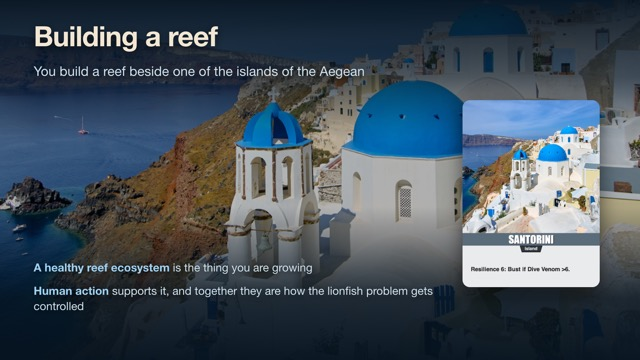
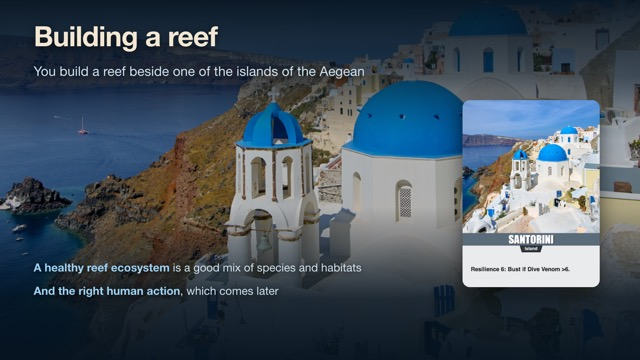
Reef Rush deck: reorder and reword the ecosystem section (species, habitats, goals, scientists, human action)

Changed region(s): [[0.0312, 0.7944, 0.6875, 0.8861], [0.2812, 0.7333, 0.5625, 0.7639]]

diff --git a/presentations/reef-rush/index.html b/presentations/reef-rush/index.html
@@ -86,6 +86,15 @@ body { background:#06131f; font-family:"Helvetica Neue", Helvetica, Arial, sans-
 .hab-photo { position:relative; width:520px; height:400px; border-radius:22px; overflow:hidden; box-shadow:0 24px 60px rgba(0,0,0,0.6); }
 .hab-photo img { display:block; width:100%; height:100%; object-fit:cover; }
 .band { position:absolute; left:0; right:0; bottom:0; padding:16px; font-size:30px; font-weight:700; text-align:center; color:#fff; letter-spacing:0.04em; }
+.recap { position:absolute; left:100px; top:545px; width:900px; display:flex; flex-wrap:wrap; gap:16px 21px; align-items:flex-end; }
+.rc-hab { width:286px; }
+.rc-cards { display:flex; gap:8px; margin-bottom:8px; }
+.rc-cards img { display:block; width:90px; height:123px; object-fit:cover; border-radius:7px; box-shadow:0 6px 14px rgba(0,0,0,0.6); }
+.rc-photo { position:relative; width:286px; height:84px; border-radius:12px; overflow:hidden; box-shadow:0 12px 28px rgba(0,0,0,0.6); }
+.rc-photo img { display:block; width:100%; height:100%; object-fit:cover; }
+.rc-photo span { position:absolute; left:0; right:0; bottom:0; padding:5px 4px; font-size:20px; font-weight:700; text-align:center; color:#fff; }
+.rc-goals { display:flex; gap:14px; width:100%; }
+.rc-goals img { display:block; width:118px; height:161px; object-fit:cover; border-radius:9px; box-shadow:0 12px 28px rgba(0,0,0,0.6); }
 .quote { position:absolute; left:100px; top:700px; width:1720px; padding:28px 34px; border-radius:20px; background:rgba(6,19,31,0.85); border-left:8px solid #ff9d7a; }
 .quote p { font-size:34px; line-height:1.35; color:#f3e7d3; font-style:italic; }
 .quote span { display:block; margin-top:12px; font-size:22px; letter-spacing:0.08em; text-transform:uppercase; color:#9fc3d9; }
@@ -127,7 +136,7 @@ body { background:#06131f; font-family:"Helvetica Neue", Helvetica, Arial, sans-
 <!-- GENERATED by build_deck.py. Edit build_deck.py, not this file. -->
 <div id="root" data-composition-id="reef-rush-v3" data-start="0" data-width="1920" data-height="1080" data-duration="400" data-fps="30">
 <!-- s01 Reef Rush -->
-<section class="clip scene" id="s01" data-start="0.000" data-duration="16.224" data-track-index="1" data-label="Reef Rush">
+<section class="clip scene" id="s01" data-start="0.000" data-duration="16.146" data-track-index="1" data-label="Reef Rush">
 <div class="glow"></div>
   <div class="kicker" id="s01-kicker" style="top:232px; font-size:40px; letter-spacing:0.35em;">BioInvaders!</div>
   <h1 class="title" id="s01-title" style="top:300px; width:1060px; font-size:150px; line-height:1;">Reef Rush</h1>
@@ -144,7 +153,7 @@ body { background:#06131f; font-family:"Helvetica Neue", Helvetica, Arial, sans-
   <div class="funding" id="s01-foot"><img src="assets/logos/eu_flag.png" alt="European Union flag">Funded by the European Union<span class="grant">Horizon Europe grant agreement No 101181413</span></div>
 </section>
 <!-- s02 The invader -->
-<section class="clip scene" id="s02" data-start="15.724" data-duration="23.310" data-track-index="2" data-label="The invader">
+<section class="clip scene" id="s02" data-start="15.646" data-duration="22.919" data-track-index="2" data-label="The invader">
 <img class="bg" src="assets/generated/slide_03_map_v2.webp" alt="" style="filter:saturate(0.88) brightness(0.86) contrast(1.03);">
   <div class="tint"></div>
   <div class="scrim-top"></div>
@@ -166,7 +175,7 @@ body { background:#06131f; font-family:"Helvetica Neue", Helvetica, Arial, sans-
   <div class="foot" id="s02-foot" style="bottom:54px;">The reefs our Greek partners dive on. <b>Every species in the game is one they meet in the sea</b></div>
 </section>
 <!-- s03 Why it's a threat -->
-<section class="clip scene" id="s03" data-start="38.534" data-duration="22.273" data-track-index="3" data-label="Why it&#x27;s a threat">
+<section class="clip scene" id="s03" data-start="38.065" data-duration="21.900" data-track-index="3" data-label="Why it&#x27;s a threat">
 <div class="glow"></div>
   <h1 class="title" id="s03-title" style="top:62px;">Why it's a threat</h1>
   <div class="threat" id="s03-t1" style="left:100px;">
@@ -186,7 +195,7 @@ body { background:#06131f; font-family:"Helvetica Neue", Helvetica, Arial, sans-
   </div>
 </section>
 <!-- s04 Invasive species this, invasive species that -->
-<section class="clip scene" id="s04" data-start="60.307" data-duration="15.210" data-track-index="4" data-label="Invasive species this, invasive species that">
+<section class="clip scene" id="s04" data-start="59.465" data-duration="15.071" data-track-index="4" data-label="Invasive species this, invasive species that">
 <img class="bg" src="assets/generated/slide_06_scrolling_figure.webp" alt="" style="filter:brightness(0.55) saturate(0.7);">
   <div class="scrim-left"></div>
   <h1 class="title" id="s04-title" style="top:150px; width:1100px; font-size:96px;">Invasive species this,<br><span class="hot">invasive species that</span></h1>
@@ -194,7 +203,7 @@ body { background:#06131f; font-family:"Helvetica Neue", Helvetica, Arial, sans-
   <div class="line" id="s04-l2" style="top:610px; width:1000px;">It stays <b>abstract</b>. It doesn't feel emotionally salient, and it doesn't motivate action</div>
 </section>
 <!-- s05 The law of apparent reality -->
-<section class="clip scene" id="s05" data-start="75.018" data-duration="16.052" data-track-index="5" data-label="The law of apparent reality">
+<section class="clip scene" id="s05" data-start="74.036" data-duration="15.786" data-track-index="5" data-label="The law of apparent reality">
 <div class="glow"></div>
   <h1 class="title" id="s05-title" style="top:62px;">The law of apparent reality</h1>
   <div class="panel" id="s05-quote" style="left:100px; top:200px; width:1000px;">
@@ -213,7 +222,7 @@ body { background:#06131f; font-family:"Helvetica Neue", Helvetica, Arial, sans-
   <div class="foot" id="s05-foot" style="bottom:54px;">The fear tracks the <b>experience</b>, not the danger</div>
 </section>
 <!-- s06 Play makes it close -->
-<section class="clip scene" id="s06" data-start="90.570" data-duration="12.596" data-track-index="6" data-label="Play makes it close">
+<section class="clip scene" id="s06" data-start="89.322" data-duration="12.389" data-track-index="6" data-label="Play makes it close">
 <img class="bg" src="assets/generated/slide_06_reef_table.webp" alt="" style="filter:brightness(0.8);">
   <div class="scrim-top"></div>
   <div class="scrim-bottom"></div>
@@ -223,41 +232,29 @@ body { background:#06131f; font-family:"Helvetica Neue", Helvetica, Arial, sans-
   <div class="foot" id="s06-foot" style="bottom:40px; font-size:40px; color:#f3e7d3;">A game puts it in your hands</div>
 </section>
 <!-- s07 Building a reef -->
-<section class="clip scene" id="s07" data-start="102.666" data-duration="13.287" data-track-index="7" data-label="Building a reef">
+<section class="clip scene" id="s07" data-start="101.211" data-duration="15.106" data-track-index="7" data-label="Building a reef">
 <img class="bg" src="assets/photos/island_santorini_full_art.webp" alt="" style="filter:brightness(0.75);">
   <div class="scrim-top"></div>
   <div class="scrim-bottom"></div>
   <h1 class="title" id="s07-title" style="top:62px;">Building a reef</h1>
   <div class="line" id="s07-lede" style="top:186px; font-size:40px;">You build a reef beside one of the islands of the Aegean</div>
   <div class="card" id="s07-card" style="right:120px; top:300px; width:412px; height:562px;"><img src="assets/cards/island_santorini_card.webp" alt="Santorini island card"></div>
-  <div class="line" id="s07-l1" style="top:780px; width:1200px;"><b>A healthy reef ecosystem</b> is the thing you are growing</div>
-  <div class="line" id="s07-l2" style="top:850px; width:1200px;"><b>Human action</b> supports it, and together they are how the lionfish problem gets controlled</div>
+  <div class="line" id="s07-l1" style="top:780px; width:1200px;"><b>A healthy reef ecosystem</b> is a good mix of species and habitats</div>
+  <div class="line" id="s07-l2" style="top:850px; width:1200px;"><b>And the right human action</b>, which comes later</div>
 </section>
-<!-- s08 Card by card -->
-<section class="clip scene" id="s08" data-start="115.453" data-duration="14.324" data-track-index="8" data-label="Card by card">
+<!-- s08 A healthy ecosystem -->
+<section class="clip scene" id="s08" data-start="115.817" data-duration="12.729" data-track-index="8" data-label="A healthy ecosystem">
 <img class="bg" src="assets/bga/final_reefs.webp" alt="" style="filter:brightness(0.3) saturate(0.6) blur(2px);">
   <div class="scrim-top"></div>
-  <h1 class="title" id="s08-title" style="top:62px;">Card by card</h1>
-  <div class="line" id="s08-lede" style="top:186px; font-size:40px;">Every card features <b>sea life native to the seas around Greece</b></div>
+  <h1 class="title" id="s08-title" style="top:62px;">A healthy ecosystem</h1>
+  <div class="line" id="s08-lede" style="top:186px; font-size:40px;">A healthy mix of <b>species native to the seas around Greece</b></div>
   <div class="art" id="s08-a1" style="left:100px;"><img src="assets/art/dusky_grouper_full_art.webp" alt=""><span>Dusky grouper</span></div>
   <div class="art" id="s08-a2" style="left:560px;"><img src="assets/art/ornate_wrasse_full_art.webp" alt=""><span>Ornate wrasse</span></div>
   <div class="art" id="s08-a3" style="left:1020px;"><img src="assets/art/yellow_tube_sponge_full_art.webp" alt=""><span>Yellow tube sponge</span></div>
   <div class="art" id="s08-a4" style="left:1480px;"><img src="assets/art/jellyfish_full_art.webp" alt=""><span>Fried egg jellyfish</span></div>
 </section>
-<!-- s09 Working with scientists -->
-<section class="clip scene" id="s09" data-start="129.278" data-duration="12.081" data-track-index="9" data-label="Working with scientists">
-<img class="bg" src="assets/photos/s09_aegean_reef_gamba.webp" alt="Rocky reef in the Cyclades with ornate wrasse, seabreams, rabbitfish, red algae and red encrusting sponge" style="left:auto; right:0; width:1080px; filter:brightness(0.85);">
-  <div class="scrim-left" style="width:1300px;"></div>
-  <h1 class="title" id="s09-title" style="top:62px;">Working with scientists</h1>
-  <div class="line" id="s09-lede" style="top:186px; width:1000px; font-size:40px;">Every species in the deck is a <b>real Aegean species</b></div>
-  <div class="panel" id="s09-box" style="left:100px; top:330px; width:900px;">
-    <p style="font-size:32px; line-height:1.4;">The GuardIAS ecologists in Greece and Germany chose and checked the species, the habitats they live in, and the way they behave</p>
-  </div>
-  <div class="foot" id="s09-foot" style="bottom:54px; width:1000px;">Managing invasions in the Med is <b>what they do for a living</b></div>
-  <div class="credit" id="s09-credit">Photo: Paolo Gamba, Cyclades, CC BY 2.0</div>
-</section>
 <!-- s10 The right habitats -->
-<section class="clip scene" id="s10" data-start="140.858" data-duration="17.089" data-track-index="10" data-label="The right habitats">
+<section class="clip scene" id="s10" data-start="128.046" data-duration="16.465" data-track-index="9" data-label="The right habitats">
 <div class="glow"></div>
   <h1 class="title" id="s10-title" style="top:62px;">The right habitats</h1>
   <div class="hab" id="s10-h1" style="left:100px;">
@@ -275,17 +272,35 @@ body { background:#06131f; font-family:"Helvetica Neue", Helvetica, Arial, sans-
   <div class="foot" id="s10-foot" style="bottom:40px;">The border colour and the corner icon name the habitat. <b>Build the right mix</b></div>
 </section>
 <!-- s11 The goals of the game -->
-<section class="clip scene" id="s11" data-start="157.447" data-duration="10.177" data-track-index="11" data-label="The goals of the game">
+<section class="clip scene" id="s11" data-start="144.011" data-duration="19.862" data-track-index="10" data-label="The goals of the game">
 <div class="glow"></div>
   <h1 class="title" id="s11-title" style="top:62px;">The goals of the game</h1>
-  <div class="line" id="s11-lede" style="top:186px; font-size:40px;">Three <b>shared objectives</b> pull every player towards the shape of a working ecosystem</div>
-  <div class="card" id="s11-o1" style="left:150px; top:290px; width:440px; height:600px;"><img src="assets/cards/obj_habitat_specialist_card.webp" alt=""></div>
-  <div class="card" id="s11-o2" style="left:740px; top:290px; width:440px; height:600px;"><img src="assets/cards/obj_travelled_diver_card.webp" alt=""></div>
-  <div class="card" id="s11-o3" style="left:1330px; top:290px; width:440px; height:600px;"><img src="assets/cards/obj_two_storey_reef_card.webp" alt=""></div>
+  <div class="line" id="s11-lede" style="top:186px; font-size:40px;">Three <b>goal cards</b> show every player what a healthy ecosystem looks like</div>
+  <div class="card" id="s11-o1" style="left:150px; top:290px; width:440px; height:600px;"><img src="assets/cards/obj_travelled_diver_card.webp" alt=""></div>
+  <div class="card" id="s11-o2" style="left:740px; top:290px; width:440px; height:600px;"><img src="assets/cards/obj_two_storey_reef_card.webp" alt=""></div>
+  <div class="card" id="s11-o3" style="left:1330px; top:290px; width:440px; height:600px;"><img src="assets/cards/obj_habitat_specialist_card.webp" alt=""></div>
   <div class="chip" id="s11-chip" style="left:460px; top:940px; width:1000px; height:84px;">A healthy reef is a high-scoring reef</div>
 </section>
+<!-- s09 Working with scientists -->
+<section class="clip scene" id="s09" data-start="163.373" data-duration="10.500" data-track-index="11" data-label="Working with scientists">
+<img class="bg" src="assets/photos/s09_aegean_reef_gamba.webp" alt="Rocky reef in the Cyclades with ornate wrasse, seabreams, rabbitfish, red algae and red encrusting sponge" style="left:auto; right:0; width:1080px; filter:brightness(0.85);">
+  <div class="scrim-left" style="width:1300px;"></div>
+  <h1 class="title" id="s09-title" style="top:62px;">Working with scientists</h1>
+  <div class="line" id="s09-lede" style="top:186px; width:1000px; font-size:40px;">Every species in the deck is a <b>real Aegean species</b></div>
+  <div class="panel" id="s09-box" style="left:100px; top:330px; width:900px;">
+    <p style="font-size:32px; line-height:1.4;">The GuardIAS ecologists in Greece and Germany chose and checked the species, the habitats they live in, and the way they behave</p>
+  </div>
+  <div class="recap" id="s09-recap">
+    <div class="rc-hab"><div class="rc-cards"><img src="assets/cards/scorpionfish_card.webp" alt=""><img src="assets/cards/cystoseira_card.webp" alt=""><img src="assets/cards/parrotfish_card.webp" alt=""></div><div class="rc-photo"><img src="assets/photos/reef_rock_full_art.webp" alt=""><span style="background:#7a3b1f;">Rocky reef</span></div></div>
+    <div class="rc-hab"><div class="rc-cards"><img src="assets/cards/damselfish_card.webp" alt=""><img src="assets/cards/peacock_wrasse_card.webp" alt=""><img src="assets/cards/loggerhead_turtle_card.webp" alt=""></div><div class="rc-photo"><img src="assets/photos/seagrass_bed_full_art.webp" alt=""><span style="background:#228833;">Posidonia</span></div></div>
+    <div class="rc-hab"><div class="rc-cards"><img src="assets/cards/axillary_seabream_card.webp" alt=""><img src="assets/cards/sand_steenbras_card.webp" alt=""><img src="assets/cards/fried_egg_jellyfish_card.webp" alt=""></div><div class="rc-photo"><img src="assets/photos/sandy_bottom_full_art.webp" alt=""><span style="background:#9a7b2c;">Sandy bottom</span></div></div>
+    <div class="rc-goals"><img src="assets/cards/obj_travelled_diver_card.webp" alt=""><img src="assets/cards/obj_two_storey_reef_card.webp" alt=""><img src="assets/cards/obj_habitat_specialist_card.webp" alt=""></div>
+  </div>
+  <div class="foot" id="s09-foot" style="bottom:54px; width:1000px;">Managing invasions in the Med is <b>what they do for a living</b></div>
+  <div class="credit" id="s09-credit">Photo: Paolo Gamba, Cyclades, CC BY 2.0</div>
+</section>
 <!-- s12 Human action -->
-<section class="clip scene" id="s12" data-start="167.124" data-duration="17.435" data-track-index="12" data-label="Human action">
+<section class="clip scene" id="s12" data-start="173.373" data-duration="15.500" data-track-index="12" data-label="Human action">
 <img class="bg" src="assets/photos/expedition_lionfish_programme_full_art.webp" alt="" style="filter:brightness(0.7);">
   <div class="scrim-left" style="width:1400px;"></div>
   <div class="scrim-bottom"></div>
@@ -300,7 +315,7 @@ body { background:#06131f; font-family:"Helvetica Neue", Helvetica, Arial, sans-
   <div class="line" id="s12-l2" style="top:810px; width:1100px;">Build the incentive in and the culling carries on by itself</div>
 </section>
 <!-- s13 An economy around the lionfish -->
-<section class="clip scene" id="s13" data-start="184.059" data-duration="10.203" data-track-index="13" data-label="An economy around the lionfish">
+<section class="clip scene" id="s13" data-start="188.373" data-duration="10.111" data-track-index="13" data-label="An economy around the lionfish">
 <img class="bg" src="assets/generated/slide_18_products.webp" alt="" style="filter:brightness(0.85);">
   <div class="scrim-top"></div>
   <div class="scrim-bottom" style="height:520px;"></div>
@@ -314,7 +329,7 @@ body { background:#06131f; font-family:"Helvetica Neue", Helvetica, Arial, sans-
   </div>
 </section>
 <!-- s14 Push your luck -->
-<section class="clip scene" id="s14" data-start="193.761" data-duration="22.274" data-track-index="14" data-label="Push your luck">
+<section class="clip scene" id="s14" data-start="197.984" data-duration="21.647" data-track-index="14" data-label="Push your luck">
 <div class="glow"></div>
   <h1 class="title" id="s14-title" style="top:62px;">Push your luck</h1>
   <div class="shot" id="s14-shot" style="left:100px; top:200px; width:1000px; height:760px;"><img src="assets/bga/mid_game.webp" alt="" style="width:1000px; height:1000px; margin-top:-120px;"><div class="shot-cap">A shared dive on Board Game Arena, 9 September playtest</div></div>
@@ -329,7 +344,7 @@ body { background:#06131f; font-family:"Helvetica Neue", Helvetica, Arial, sans-
   </div>
 </section>
 <!-- s15 Diving the reef -->
-<section class="clip scene" id="s15" data-start="215.536" data-duration="28.437" data-track-index="15" data-label="Diving the reef">
+<section class="clip scene" id="s15" data-start="219.130" data-duration="27.631" data-track-index="15" data-label="Diving the reef">
 <div class="glow"></div>
   <h1 class="title" id="s15-title" style="top:62px;">Diving the reef</h1>
   <div id="s15-table" style="position:absolute; inset:0;">
@@ -354,7 +369,7 @@ body { background:#06131f; font-family:"Helvetica Neue", Helvetica, Arial, sans-
   </div>
 </section>
 <!-- s16 The deeper you dive -->
-<section class="clip scene" id="s16" data-start="243.473" data-duration="18.166" data-track-index="16" data-label="The deeper you dive">
+<section class="clip scene" id="s16" data-start="246.262" data-duration="17.657" data-track-index="16" data-label="The deeper you dive">
 <img class="bg" src="assets/photos/expedition_travelled_diver_full_art.webp" alt="" style="left:auto; right:0; width:1080px; filter:brightness(0.8);">
   <div class="scrim-left" style="width:1300px;"></div>
   <h1 class="title" id="s16-title" style="top:62px;">The deeper you dive</h1>
@@ -363,7 +378,7 @@ body { background:#06131f; font-family:"Helvetica Neue", Helvetica, Arial, sans-
   <div class="chip" id="s16-chip" style="left:100px; top:760px; width:960px; height:84px;">More than six venom on display and the dive busts</div>
 </section>
 <!-- s17 Stay or surface -->
-<section class="clip scene" id="s17" data-start="261.138" data-duration="10.771" data-track-index="17" data-label="Stay or surface">
+<section class="clip scene" id="s17" data-start="263.418" data-duration="10.475" data-track-index="17" data-label="Stay or surface">
 <img class="bg" src="assets/generated/slide_17_stay_or_surface.webp" alt="" style="filter:brightness(0.85);">
   <div class="scrim-top"></div>
   <div class="scrim-bottom"></div>
@@ -373,7 +388,7 @@ body { background:#06131f; font-family:"Helvetica Neue", Helvetica, Arial, sans-
   <div class="pin big" id="s17-p2" style="left:1320px; top:760px;">&uarr;&ensp;Surface</div>
 </section>
 <!-- s18 If you stop -->
-<section class="clip scene" id="s18" data-start="271.409" data-duration="13.647" data-track-index="18" data-label="If you stop">
+<section class="clip scene" id="s18" data-start="273.393" data-duration="13.268" data-track-index="18" data-label="If you stop">
 <img class="bg" src="assets/generated/slide_26_surfacing.webp" alt="" style="filter:brightness(0.8);">
   <div class="scrim-top"></div>
   <div class="scrim-bottom"></div>
@@ -383,7 +398,7 @@ body { background:#06131f; font-family:"Helvetica Neue", Helvetica, Arial, sans-
   <div class="line" id="s18-l1" style="top:840px; width:1100px;"><b>Surface</b>, and you take exactly one card from the display into your reef. The dive goes on without you</div>
 </section>
 <!-- s19 Natural predators -->
-<section class="clip scene" id="s19" data-start="284.556" data-duration="8.717" data-track-index="19" data-label="Natural predators">
+<section class="clip scene" id="s19" data-start="286.161" data-duration="8.480" data-track-index="19" data-label="Natural predators">
 <div class="glow"></div>
   <h1 class="title" id="s19-title" style="top:62px;">Natural predators</h1>
   <div class="line" id="s19-lede" style="top:186px; font-size:40px;">Grouper and moray are the <b>bodyguards</b> of your reef</div>
@@ -397,7 +412,7 @@ body { background:#06131f; font-family:"Helvetica Neue", Helvetica, Arial, sans-
   <div class="foot" id="s19-foot" style="bottom:54px;">They protect the cards next to them, and <b>they cannot be eaten themselves</b></div>
 </section>
 <!-- s20 Cashing in the catch -->
-<section class="clip scene" id="s20" data-start="292.773" data-duration="8.717" data-track-index="20" data-label="Cashing in the catch">
+<section class="clip scene" id="s20" data-start="294.141" data-duration="8.480" data-track-index="20" data-label="Cashing in the catch">
 <div class="glow"></div>
   <h1 class="title" id="s20-title" style="top:62px;">Cashing in the catch</h1>
   <div class="line" id="s20-lede" style="top:186px; font-size:35px;">The spearfisher removes a lionfish, but <b>selling the catch at the market is where the points are</b></div>
@@ -410,7 +425,7 @@ body { background:#06131f; font-family:"Helvetica Neue", Helvetica, Arial, sans-
   <div class="foot" id="s20-foot" style="bottom:54px;">Create market demand and <b>culling the invader becomes worth doing again and again</b></div>
 </section>
 <!-- s21 The game ends -->
-<section class="clip scene" id="s21" data-start="300.990" data-duration="15.361" data-track-index="21" data-label="The game ends">
+<section class="clip scene" id="s21" data-start="302.121" data-duration="15.106" data-track-index="21" data-label="The game ends">
 <div class="glow"></div>
   <h1 class="title" id="s21-title" style="top:62px;">The game ends</h1>
   <div class="shot" id="s21-shot" style="left:100px; top:200px; width:1000px; height:760px;"><img src="assets/bga/final_reefs_10.webp" alt="" style="width:1000px; height:1000px; margin-top:-120px;"><div class="shot-cap">Endgame reef, 9 September playtest with the Greek team</div></div>
@@ -425,7 +440,7 @@ body { background:#06131f; font-family:"Helvetica Neue", Helvetica, Arial, sans-
   </div>
 </section>
 <!-- s22 One of seven games -->
-<section class="clip scene" id="s22" data-start="315.851" data-duration="14.324" data-track-index="22" data-label="One of seven games">
+<section class="clip scene" id="s22" data-start="316.727" data-duration="14.087" data-track-index="22" data-label="One of seven games">
 <img class="bg" src="assets/photos/s22_backs.webp" alt="">
   <div class="scrim-bottom" style="height:360px;"></div>
   <div class="seven" id="s22-seven">7</div>
@@ -434,7 +449,7 @@ body { background:#06131f; font-family:"Helvetica Neue", Helvetica, Arial, sans-
   <div class="line" id="s22-l2" style="top:950px; width:1720px;">A few months in, still very much a prototype, and still changing</div>
 </section>
 <!-- s23 In person and online -->
-<section class="clip scene" id="s23" data-start="329.675" data-duration="12.942" data-track-index="23" data-label="In person and online">
+<section class="clip scene" id="s23" data-start="330.314" data-duration="12.729" data-track-index="23" data-label="In person and online">
 <div class="glow"></div>
   <h1 class="title" id="s23-title" style="top:62px;">In person and online</h1>
   <div class="shot" id="s23-a" style="left:100px; top:210px; width:840px; height:560px;"><img src="assets/generated/slide_23_three_player_dive.webp" alt="" style="width:840px; height:473px; margin-top:0;"><div class="shot-cap">Playtests round the table</div></div>
@@ -442,7 +457,7 @@ body { background:#06131f; font-family:"Helvetica Neue", Helvetica, Arial, sans-
   <div class="chip" id="s23-chip" style="left:130px; top:860px; width:1660px; height:84px; font-size:30px;">Print-and-play copies being tested by our Greek partner later this month, at a lionfish event in Santorini</div>
 </section>
 <!-- s24 The sweet spot -->
-<section class="clip scene" id="s24" data-start="342.116" data-duration="10.177" data-track-index="24" data-label="The sweet spot">
+<section class="clip scene" id="s24" data-start="342.543" data-duration="10.011" data-track-index="24" data-label="The sweet spot">
 <img class="bg" src="assets/generated/slide_24_balance_gen.webp" alt="" style="filter:brightness(0.8);">
   <div class="scrim-top"></div>
   <div class="scrim-bottom"></div>
@@ -451,7 +466,7 @@ body { background:#06131f; font-family:"Helvetica Neue", Helvetica, Arial, sans-
   <div class="foot" id="s24-foot" style="bottom:54px; font-size:36px;">Feedback from that event and other playtests tunes the economy until the feel is right</div>
 </section>
 <!-- s25 Free under Creative Commons -->
-<section class="clip scene" id="s25" data-start="351.793" data-duration="15.707" data-track-index="25" data-label="Free under Creative Commons">
+<section class="clip scene" id="s25" data-start="352.054" data-duration="15.446" data-track-index="25" data-label="Free under Creative Commons">
 <div class="glow"></div>
   <h1 class="title" id="s25-title" style="top:62px;">Free under Creative Commons</h1>
   <div class="shot" id="s25-shot" style="left:100px; top:210px; width:840px; height:473px;"><img src="assets/generated/slide_25_manual_gen.webp" alt="" style="width:840px; height:473px; margin-top:0;"></div>
@@ -509,7 +524,7 @@ body { background:#06131f; font-family:"Helvetica Neue", Helvetica, Arial, sans-
 <script>
 window.__timelines = window.__timelines || {};
 const tl = gsap.timeline({ paused: true });
-const S = {"s01": {"T": 0.0, "D": 15.724, "W": 0.3333}, "s02": {"T": 15.724, "D": 22.81, "W": 0.3333}, "s03": {"T": 38.534, "D": 21.773, "W": 0.3333}, "s04": {"T": 60.307, "D": 14.71, "W": 0.3333}, "s05": {"T": 75.018, "D": 15.552, "W": 0.3333}, "s06": {"T": 90.57, "D": 12.096, "W": 0.3333}, "s07": {"T": 102.666, "D": 12.787, "W": 0.3333}, "s08": {"T": 115.453, "D": 13.824, "W": 0.3333}, "s09": {"T": 129.278, "D": 11.581, "W": 0.3333}, "s10": {"T": 140.858, "D": 16.589, "W": 0.3333}, "s11": {"T": 157.447, "D": 9.677, "W": 0.3333}, "s12": {"T": 167.124, "D": 16.935, "W": 0.3333}, "s13": {"T": 184.059, "D": 9.703, "W": 0.3333}, "s14": {"T": 193.761, "D": 21.774, "W": 0.3333}, "s15": {"T": 215.536, "D": 27.937, "W": 0.3333}, "s16": {"T": 243.473, "D": 17.666, "W": 0.3333}, "s17": {"T": 261.138, "D": 10.271, "W": 0.3333}, "s18": {"T": 271.409, "D": 13.147, "W": 0.3333}, "s19": {"T": 284.556, "D": 8.217, "W": 0.3333}, "s20": {"T": 292.773, "D": 8.217, "W": 0.3333}, "s21": {"T": 300.99, "D": 14.861, "W": 0.3333}, "s22": {"T": 315.851, "D": 13.824, "W": 0.3333}, "s23": {"T": 329.675, "D": 12.442, "W": 0.3333}, "s24": {"T": 342.116, "D": 9.677, "W": 0.3333}, "s25": {"T": 351.793, "D": 15.207, "W": 0.3333}, "s26": {"T": 367.0, "D": 28.0, "W": 0.3333}, "s28": {"T": 395.0, "D": 5.0, "W": 0.3333}};
+const S = {"s01": {"T": 0.0, "D": 15.646, "W": 0.3333}, "s02": {"T": 15.646, "D": 22.419, "W": 0.3333}, "s03": {"T": 38.065, "D": 21.4, "W": 0.3333}, "s04": {"T": 59.465, "D": 14.571, "W": 0.3333}, "s05": {"T": 74.036, "D": 15.286, "W": 0.3333}, "s06": {"T": 89.322, "D": 11.889, "W": 0.3333}, "s07": {"T": 101.211, "D": 14.606, "W": 0.3333}, "s08": {"T": 115.817, "D": 12.229, "W": 0.3333}, "s10": {"T": 128.046, "D": 15.965, "W": 0.3333}, "s11": {"T": 144.011, "D": 19.362, "W": 0.3333}, "s09": {"T": 163.373, "D": 10.0, "W": 0.3333}, "s12": {"T": 173.373, "D": 15.0, "W": 0.3333}, "s13": {"T": 188.373, "D": 9.611, "W": 0.3333}, "s14": {"T": 197.984, "D": 21.147, "W": 0.3333}, "s15": {"T": 219.13, "D": 27.131, "W": 0.3333}, "s16": {"T": 246.262, "D": 17.157, "W": 0.3333}, "s17": {"T": 263.418, "D": 9.975, "W": 0.3333}, "s18": {"T": 273.393, "D": 12.768, "W": 0.3333}, "s19": {"T": 286.161, "D": 7.98, "W": 0.3333}, "s20": {"T": 294.141, "D": 7.98, "W": 0.3333}, "s21": {"T": 302.121, "D": 14.606, "W": 0.3333}, "s22": {"T": 316.727, "D": 13.587, "W": 0.3333}, "s23": {"T": 330.314, "D": 12.229, "W": 0.3333}, "s24": {"T": 342.543, "D": 9.511, "W": 0.3333}, "s25": {"T": 352.054, "D": 14.946, "W": 0.3333}, "s26": {"T": 367.0, "D": 28.0, "W": 0.3333}, "s28": {"T": 395.0, "D": 5.0, "W": 0.3333}};
 const at  = (id, s) => S[id].T + s;                 // seconds into a scene
 const cue = (id, n) => S[id].T + n * S[id].W;       // n words into a scene's script
 const end = (id, s) => S[id].T + S[id].D - s;       // seconds before a scene ends
@@ -556,27 +571,27 @@ title("s07", at("s07", 0.2)); rise("#s07-lede", at("s07", 0.4));
 slide("#s07-card", at("s07", 0.4), 80);
 rise("#s07-l1", at("s07", 3.0)); rise("#s07-l2", at("s07", 5.5));
 
-// s08 Card by card: the four species are all up well before the slide changes
+// s08 A healthy ecosystem: the four species are all up well before the slide changes
 title("s08", at("s08", 0.2)); rise("#s08-lede", at("s08", 0.4));
 ["#s08-a1", "#s08-a2", "#s08-a3", "#s08-a4"].forEach((sel, i) => rise(sel, at("s08", 1.5) + i * 1.0));
 
 // s09 Working with scientists
-title("s09", at("s09", 0.2)); rise("#s09-lede", at("s09", 0.4)); rise("#s09-box", at("s09", 2.0)); rise("#s09-foot", at("s09", 4.0));
+title("s09", at("s09", 0.2)); rise("#s09-lede", at("s09", 0.4)); rise("#s09-box", at("s09", 1.2)); rise("#s09-recap", at("s09", 2.2)); rise("#s09-foot", at("s09", 3.5));
 
 // s10 Habitats: photos first, then the cards drop in
 title("s10", at("s10", 0.2));
 rise("#s10-h1 .hab-photo", at("s10", 0.6)); rise("#s10-h2 .hab-photo", at("s10", 0.8)); rise("#s10-h3 .hab-photo", at("s10", 1.0));
-["#s10-c1a", "#s10-c1b", "#s10-c1c", "#s10-c2a", "#s10-c2b", "#s10-c2c", "#s10-c3a", "#s10-c3b", "#s10-c3c"].forEach((sel, i) => pop(sel, cue("s10", 15) + i * 0.15));
-rise("#s10-foot", cue("s10", 20));
+["#s10-c1a", "#s10-c1b", "#s10-c1c", "#s10-c2a", "#s10-c2b", "#s10-c2c", "#s10-c3a", "#s10-c3b", "#s10-c3c"].forEach((sel, i) => pop(sel, at("s10", 2.5) + i * 0.15));
+rise("#s10-foot", at("s10", 5.0));
 
 // s11 Goals
-title("s11", at("s11", 0.2)); rise("#s11-lede", cue("s11", 4));
-rise("#s11-o1", cue("s11", 6)); rise("#s11-o2", cue("s11", 6) + 0.3); rise("#s11-o3", cue("s11", 6) + 0.6);
-pop("#s11-chip", cue("s11", 23) - 2);
+title("s11", at("s11", 0.2)); rise("#s11-lede", at("s11", 0.4));
+rise("#s11-o1", at("s11", 1.2)); rise("#s11-o2", at("s11", 1.5)); rise("#s11-o3", at("s11", 1.8));
+pop("#s11-chip", at("s11", 8.0));
 
 // s12 Human action: the spearfisher card arrives halfway through
-title("s12", at("s12", 0.2)); rise("#s12-lede", cue("s12", 8) - 2); rise("#s12-box", cue("s12", 22) - 2);
-slide("#s12-card", at("s12", S.s12.D / 2 - 2), 80); rise("#s12-l1", cue("s12", 31) - 2); rise("#s12-l2", cue("s12", 41) - 2);
+title("s12", at("s12", 0.2)); rise("#s12-lede", at("s12", 0.4)); rise("#s12-box", at("s12", 3.0));
+slide("#s12-card", at("s12", 1.0), 80); rise("#s12-l1", at("s12", 6.0)); rise("#s12-l2", at("s12", 8.5));
 
 // s13 Economy
 title("s13", at("s13", 0.2));
@@ -694,7 +709,7 @@ body { cursor:pointer; }
 <script>
 (function () {
   const END = 400.000, REST = 3.0;                 // REST: where slide 1 sits, fully drawn, before the talk starts
-  const ids = Object.keys(S), T = ids.map((id) => S[id].T), names = ["Reef Rush", "The invader", "Why it's a threat", "Invasive species this, invasive species that", "The law of apparent reality", "Play makes it close", "Building a reef", "Card by card", "Working with scientists", "The right habitats", "The goals of the game", "Human action", "An economy around the lionfish", "Push your luck", "Diving the reef", "The deeper you dive", "Stay or surface", "If you stop", "Natural predators", "Cashing in the catch", "The game ends", "One of seven games", "In person and online", "The sweet spot", "Free under Creative Commons", "Why it should win", "Questions"];
+  const ids = Object.keys(S), T = ids.map((id) => S[id].T), names = ["Reef Rush", "The invader", "Why it's a threat", "Invasive species this, invasive species that", "The law of apparent reality", "Play makes it close", "Building a reef", "A healthy ecosystem", "The right habitats", "The goals of the game", "Working with scientists", "Human action", "An economy around the lionfish", "Push your luck", "Diving the reef", "The deeper you dive", "Stay or surface", "If you stop", "Natural predators", "Cashing in the catch", "The game ends", "One of seven games", "In person and online", "The sweet spot", "Free under Creative Commons", "Why it should win", "Questions"];
   const root = document.getElementById("root"), timer = document.getElementById("pk-timer"),
         wait = document.getElementById("pk-wait"), over = document.getElementById("pk-over");
   tl.add(() => {}, END);                                 // the last slide runs its full time
